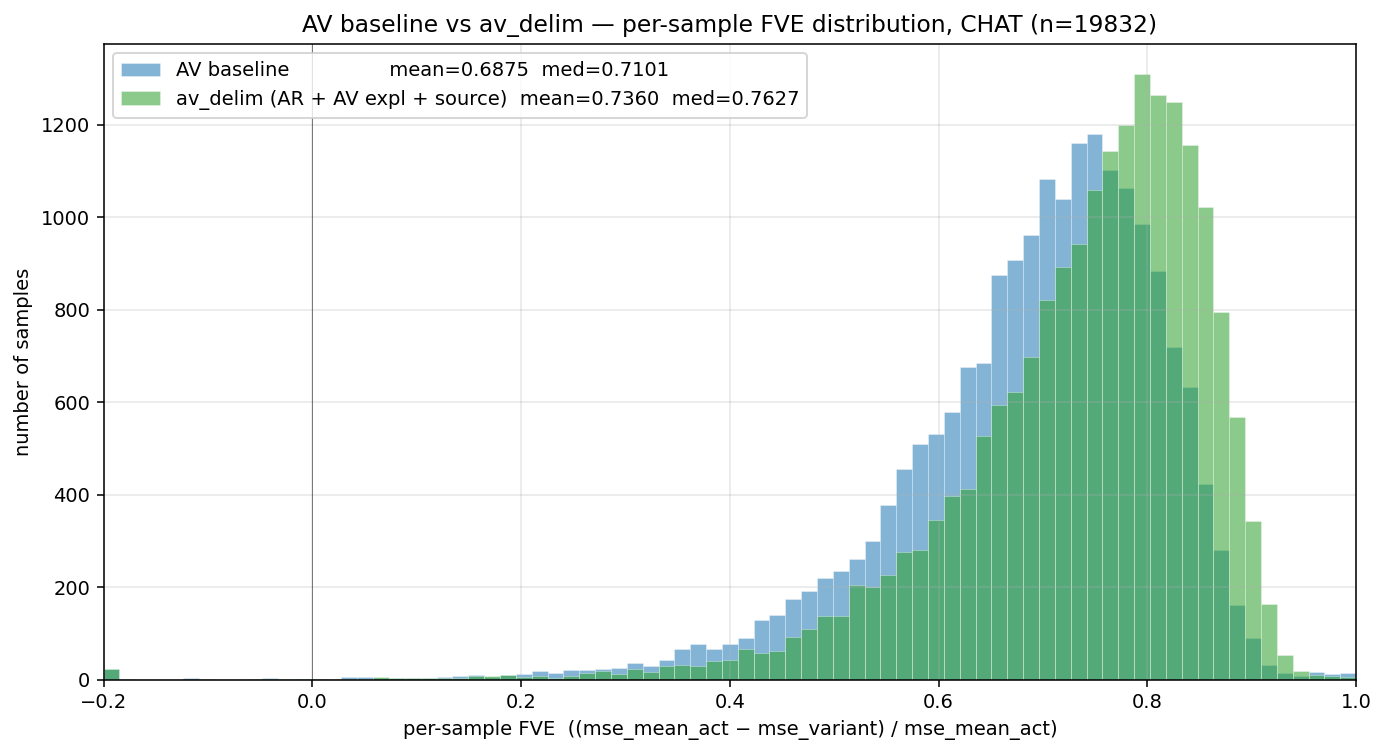
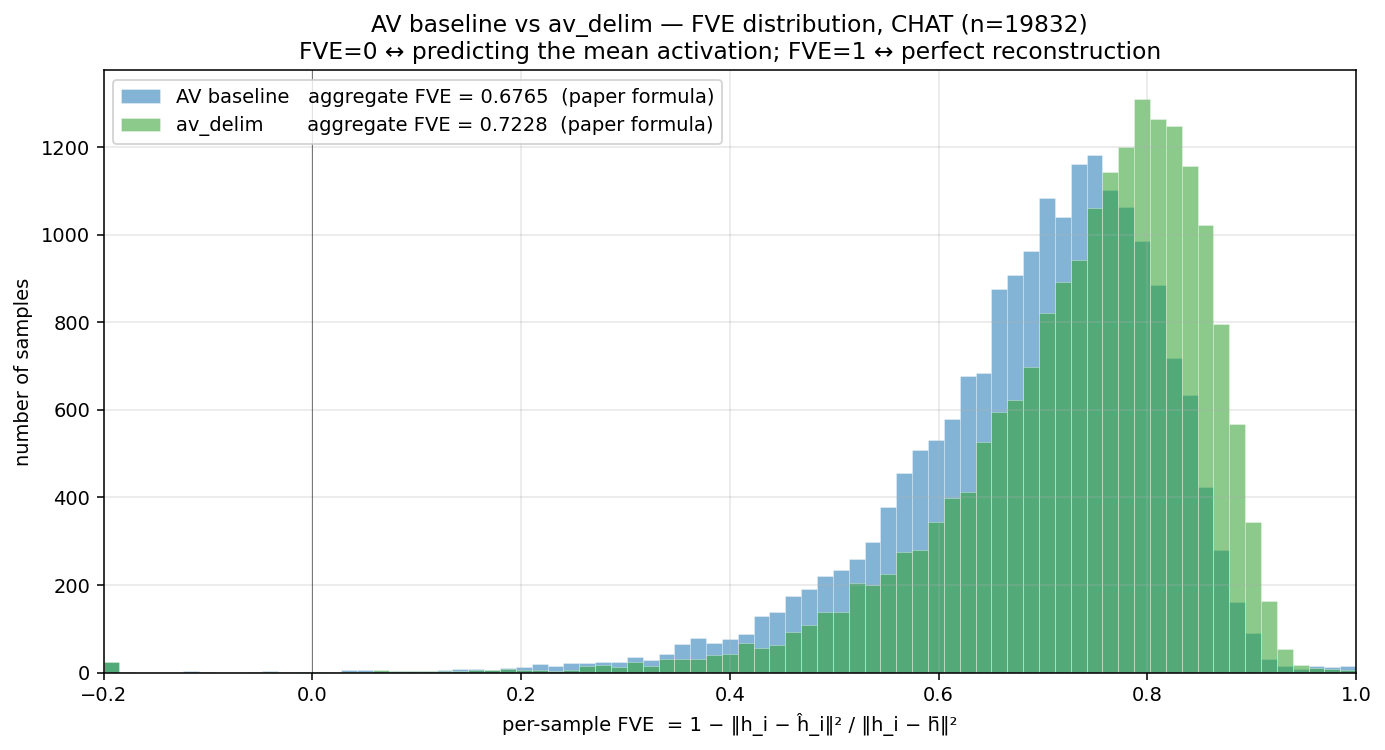
exp: chat FVE histogram with paper-formula aggregate FVE in legend
Per-sample FVE histogram (for distribution visualization) with the
paper-formula aggregate FVE = 1 − E[loss]/E[var-to-mean] shown in the
legend. Differs from per-sample mean by ~1 pp (per-sample averaging
overweights samples with low var-to-mean).

Chat 20k:  AV agg FVE 0.6765, av_delim agg FVE 0.7228 (Δ +0.046).
           Per-sample mean FVE: AV 0.6875, av_delim 0.7360.

diff --git a/exp/plot_av_vs_avdelim_chat_fve.py b/exp/plot_av_vs_avdelim_chat_fve.py
@@ -56,27 +56,31 @@ def main():
     rows = np.asarray(rows)
     av, avd, base = rows[:, 0], rows[:, 1], rows[:, 2]
 
-    # Per-sample FVE relative to mean-activation baseline
-    fve_av  = (base - av)  / base
-    fve_avd = (base - avd) / base
+    # Per-sample FVE (for visualization).
+    fve_av  = 1 - av  / base
+    fve_avd = 1 - avd / base
+    # Paper formula: aggregate FVE = 1 - mean(loss) / mean(var)  (single scalar)
+    fve_agg_av  = 1 - av.mean()  / base.mean()
+    fve_agg_avd = 1 - avd.mean() / base.mean()
     n = len(av)
     print(f"n_paired={n}")
-    print(f"  AV       FVE mean={fve_av.mean():.4f}  med={np.median(fve_av):.4f}")
-    print(f"  av_delim FVE mean={fve_avd.mean():.4f}  med={np.median(fve_avd):.4f}")
+    print(f"  AV       per-sample FVE mean={fve_av.mean():.4f}  med={np.median(fve_av):.4f}  aggregate={fve_agg_av:.4f}")
+    print(f"  av_delim per-sample FVE mean={fve_avd.mean():.4f}  med={np.median(fve_avd):.4f}  aggregate={fve_agg_avd:.4f}")
 
     fig, ax = plt.subplots(figsize=(10, 5.5))
     # FVE is unbounded above (can be negative if variant > empty); clip x for display.
     lo, hi = -0.2, 1.0
     bins = np.linspace(lo, hi, 80)
     ax.hist(np.clip(fve_av,  lo, hi), bins=bins, alpha=0.55, color="#1f77b4",
-            label=f"AV baseline                mean={fve_av.mean():.4f}  med={np.median(fve_av):.4f}",
+            label=f"AV baseline   aggregate FVE = {fve_agg_av:.4f}  (paper formula)",
             edgecolor="white", linewidth=0.3)
     ax.hist(np.clip(fve_avd, lo, hi), bins=bins, alpha=0.55, color="#2ca02c",
-            label=f"av_delim (AR + AV expl + source)  mean={fve_avd.mean():.4f}  med={np.median(fve_avd):.4f}",
+            label=f"av_delim       aggregate FVE = {fve_agg_avd:.4f}  (paper formula)",
             edgecolor="white", linewidth=0.3)
-    ax.set_xlabel("per-sample FVE  ((mse_mean_act − mse_variant) / mse_mean_act)")
+    ax.set_xlabel("per-sample FVE  = 1 − ‖h_i − ĥ_i‖² / ‖h_i − h̄‖²")
     ax.set_ylabel("number of samples")
-    ax.set_title(f"AV baseline vs av_delim — per-sample FVE distribution, CHAT (n={n})")
+    ax.set_title(f"AV baseline vs av_delim — FVE distribution, CHAT (n={n})\n"
+                 f"FVE=0 ↔ predicting the mean activation; FVE=1 ↔ perfect reconstruction")
     ax.grid(True, which="both", alpha=0.3)
     ax.axvline(0, color="black", linewidth=0.5, alpha=0.5)
     ax.legend(loc="upper left", fontsize=10)
